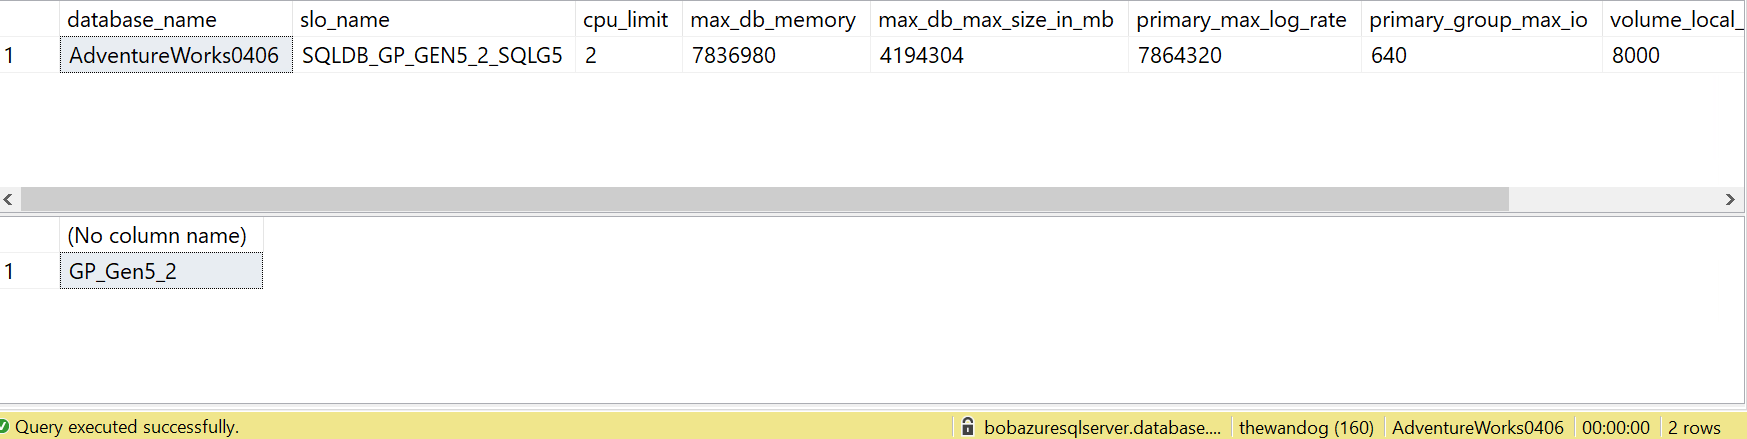
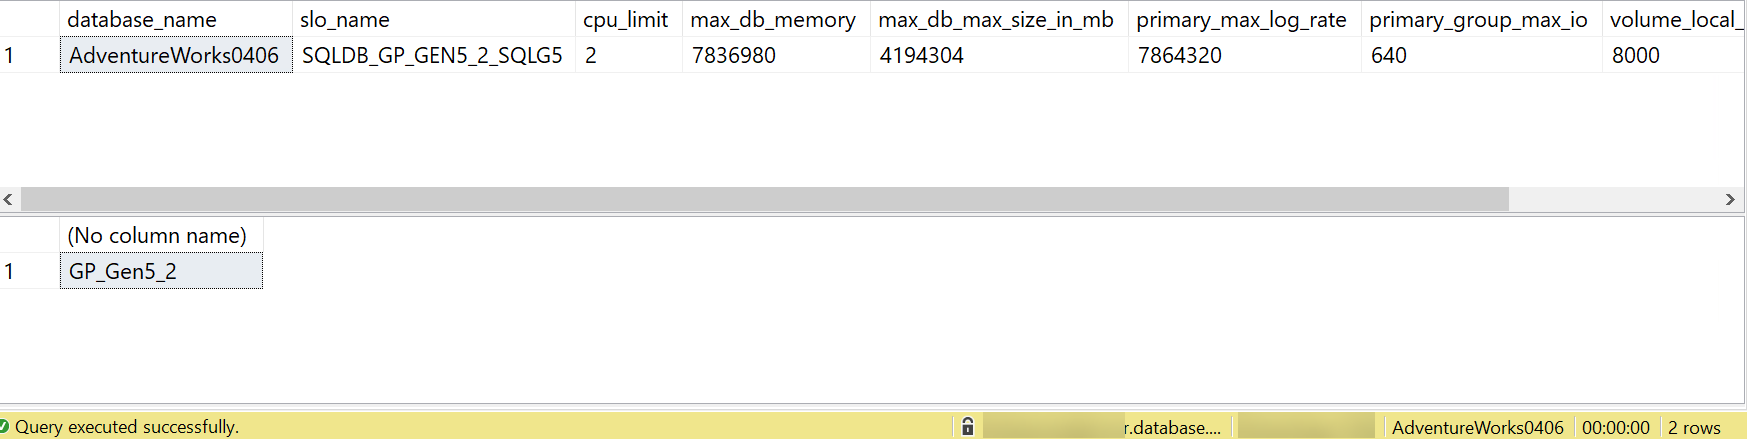
formatting changes

Changed region(s): [[0.7109, 0.9476, 0.8037, 1.0], [0.5564, 0.9476, 0.6491, 1.0]]

diff --git a/AzureSQLWorkshop/azuresqlworkshop/04-Performance.md b/AzureSQLWorkshop/azuresqlworkshop/04-Performance.md
@@ -186,7 +186,7 @@ Query Store comes with a series of system catalog views to view performance data
 
 Using the Object Explorer in SSMS, open the Query Store Folder to find the report for **Top Resource Consuming Queries**<br><br>
 
-<img src="../graphics/SSMS_QDS_Find_Top_Queries.png" alt="SSMS_QDS_Find_Top_Queries" width=200 height=100/>
+<img src="../graphics/SSMS_QDS_Find_Top_Queries.png" alt="SSMS_QDS_Find_Top_Queries"/>
 
 Select the report to find out what queries have consumed the most avg resources and execution details of those queries. Based on the workload run to this point, your report should look something like the following:<br><br>
 <img src="../graphics/SSMS_QDS_Top_Query_Report.png" alt="SSMS_QDS_Find_Top_Queries"/>
@@ -265,11 +265,11 @@ Since workload is CPU bound one way to improve performance is to increase CPU ca
 
 For Azure, we can use ALTER DATABASE, az cli, or the portal to increase CPU capacity.
 
-Using the Azure Portal we can see options for how you can scale for more CPU resources. Using the Overview blade for the database, select the Pricing tier current deployment.
+Using the Azure Portal we can see options for how you can scale for more CPU resources. Using the Overview blade for the database, select the Pricing tier current deployment.<br><br>
 
 <img src="../graphics/Azure_Portal_Change_Tier.png" alt="Azure_Portal_Change_Tier"/>
 
-Here you can see options for changing or scaling compute resources. For General Purpose, you can easily scale up to something like 8 vCores.
+Here you can see options for changing or scaling compute resources. For General Purpose, you can easily scale up to something like 8 vCores.<br><br>
 
 <img src="../graphics/Azure_Portal_Compute_Options.png" alt="Azure_Portal_Compute_Options"/>
 
@@ -295,7 +295,7 @@ SELECT DATABASEPROPERTYEX('AdventureWorks0406', 'ServiceObjective');
 GO
 ```
 
-For the current Azure SQL Database deployment, your results should look like the following:
+For the current Azure SQL Database deployment, your results should look like the following:<br><br>
 
 <img src="../graphics/service_objective_results.png" alt="service_objective_results"/>
 
@@ -311,7 +311,7 @@ Using SSMS, run the script modify_service_objective.sql or T-SQL command:
 ALTER DATABASE AdventureWorks0406 MODIFY (SERVICE_OBJECTIVE = 'GP_Gen5_8');
 ```
 
-This statement comes back immediately but the scaling of the compute resources take place in the background. A scale this small should take less than a minute and for a short period of time the database will be offline to make the change effective. You can monitor the progress of this scaling activity using the Azure Portal. 
+This statement comes back immediately but the scaling of the compute resources take place in the background. A scale this small should take less than a minute and for a short period of time the database will be offline to make the change effective. You can monitor the progress of this scaling activity using the Azure Portal.<br><br>
 
 <img src="../graphics/Azure_Portal_Update_In_Progress.png" alt="Azure_Portal_Update_In_Progress"/>
 
@@ -353,7 +353,6 @@ Look at the Overview blade again for the Compute Utilization. Notice the signifi
 
 <img src="../graphics/Azure_Portal_Compute_Query_Comparison.png" alt="Azure_Portal_Compute_Query_Comparison"/>
 
-
 - Observe differences with XEvents.
 
 TODO: Does this become part of the bonus activity.
@@ -377,13 +376,6 @@ xxxxxx
 Re-run the ostress workload.
 
 **Step 4: Observe new performance of the workload**
-
-- Observe DMV queries
-- Observe query store reports
-- Observe azure portal
-- Observe differences with XEvents.
-
-- **TODO:** - Why does dm_db_resource_stats show lower overall CPU% on serverless? 
 
 <p><img style="float: left; margin: 0px 15px 15px 0px;" src="../graphics/point1.png"><a name="2"><b>Activity 4 (BONUS)</a>: Optimizing performance of data loading</b></p>
 
